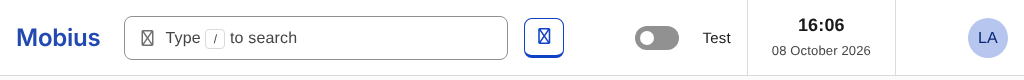
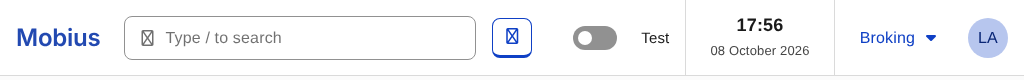
Mobius navigation: the system menu's trigger shows the current system
- The system menu is now a labelled ghost Menu button reading the current
  system ("Broking ▾"), so the top bar says where you are. Screen readers
  hear "System: Broking". The Systems header is removed.
- To fit the top bar: the search field is at most 20rem between 768 and
  1280px, and below 430px it shows only its icon. The search opens from a
  press anywhere on the field.
- Below 576px the trigger shows only its caret.

Claude-Session: https://claude.ai/code/session_011ueEbt7DPCNdx7drzVGCE6

diff --git a/Mobius-navigation/index.html b/Mobius-navigation/index.html
@@ -15,7 +15,7 @@
 <link rel="stylesheet" href="../prototype/blade.css">
 <!-- ?v= is bumped with every change, so browsers fetch this prototype's
      own files afresh rather than an old cached copy. -->
-<link rel="stylesheet" href="mobius-navigation.css?v=20261008-24">
+<link rel="stylesheet" href="mobius-navigation.css?v=20261008-29">
 </head>
 <body class="mob-hide-terms">
 
@@ -96,16 +96,16 @@
         <time class="app-bar-date" id="app-clock-date" datetime="2026-10-01">01 October 2026</time>
       </div>
 
-      <!-- System menu: Buckholt Menu button with an icon-only ghost trigger
-           (as the Overflow menu, Code & specs example 3) and its Tooltip on
-           the wrapper. Its panel is Menu's documented Link variant: one
-           `a.menu-item` per system (Broking, Activity, Renewals, Bordereau,
-           Accounts) with its icon, the current one `aria-current="page"`.
-           Written by mobius-navigation.js. -->
-      <div class="menu mob-systems" data-bs-toggle="tooltip" data-bs-placement="bottom" data-bs-title="Switch system">
-        <button type="button" class="btn btn-ghost menu-toggle" id="mob-systems-toggle" data-bs-toggle="dropdown" aria-expanded="false"
-          aria-label="Switch system" aria-controls="mob-systems-panel">
-          <div class="btn-icon"><i class="fa-regular fa-grid" aria-hidden="true"></i></div>
+      <!-- System menu: Buckholt Menu button (Code & specs example 1: the
+           label, then the caret), as a ghost Button. Its label is the
+           current system ("Broking"), so the top bar says where you are; it
+           is read out as "System: Broking". Its panel is Menu's documented
+           Link variant: one `a.menu-item` per system with its icon, the
+           current one `aria-current="page"`. Written by mobius-navigation.js. -->
+      <div class="menu mob-systems">
+        <button type="button" class="btn btn-ghost menu-toggle" id="mob-systems-toggle" data-bs-toggle="dropdown" aria-expanded="false" aria-controls="mob-systems-panel">
+          <span class="button-label"><span class="visually-hidden">System: </span><span id="mob-system-current">Broking</span></span>
+          <div class="btn-icon"><i class="fa-solid fa-caret-down" aria-hidden="true"></i></div>
         </button>
         <div class="menu-panel dropdown-menu dropdown-menu-end" id="mob-systems-panel" aria-labelledby="mob-systems-toggle">
           <ul class="menu-body" role="menu" id="mob-systems-items"></ul>
@@ -269,9 +269,9 @@
 <script src="../components/form/form.js"></script>
 <script src="../prototype/app-shell.js"></script>
 <script src="../prototype/blade.js"></script>
-<script src="fixtures.js?v=20261008-24"></script>
-<script src="navigation-model.js?v=20261008-24"></script>
-<script src="pages.js?v=20261008-24"></script>
-<script src="mobius-navigation.js?v=20261008-24"></script>
+<script src="fixtures.js?v=20261008-29"></script>
+<script src="navigation-model.js?v=20261008-29"></script>
+<script src="pages.js?v=20261008-29"></script>
+<script src="mobius-navigation.js?v=20261008-29"></script>
 </body>
 </html>

diff --git a/Mobius-navigation/mobius-navigation.js b/Mobius-navigation/mobius-navigation.js
@@ -464,15 +464,17 @@
      The system menu at the top right: an icon-only Menu button whose panel
      is Menu's documented Link variant, one link per system with its icon
      (Laurence, 8 October 2026: back to documented Buckholt, in place of
-     Response buttons). Client and policy pages are Broking's; the current
-     system is `aria-current="page"`. */
+     Response buttons). Its trigger is labelled with the current system, so
+     the top bar says where you are. Client and policy pages are Broking's;
+     the current system is `aria-current="page"`. */
   function currentSystem(r) {
     return r.scope === 'app' && ['dashboard', 'search', 'newclient'].indexOf(r.page) < 0 ? r.page : 'dashboard';
   }
   function renderSystems(r) {
     var cur = currentSystem(r);
+    /* The trigger's label is the current system. */
+    $('mob-system-current').innerHTML = t(M.MODULES.filter(function (m) { return m.id === cur; })[0].label);
     $('mob-systems-items').innerHTML =
-      '<li role="none"><h6 class="menu-section-header">Systems</h6></li>' +
       M.MODULES.map(function (m) {
         var on = m.id === cur;
         return '<li role="none"><a class="menu-item" role="menuitem" href="#' + m.id + '"' + (on ? ' aria-current="page"' : '') + '>' +
@@ -586,7 +588,8 @@
      focus ring is not left showing behind it, and focus is not put back
      on it afterwards. Opened from the keyboard, focus returns to the field
      when the Modal closes. */
-  searchInput.addEventListener('mousedown', function (e) {
+  /* On the field or its icon (on a narrow phone the icon covers it). */
+  searchForm.addEventListener('mousedown', function (e) {
     e.preventDefault();
     S.searchTrigger = null;
     openSearch();

diff --git a/Mobius-navigation/mobius-navigation.css b/Mobius-navigation/mobius-navigation.css
@@ -78,6 +78,27 @@
 .mob-systems { position: relative; display: flex; align-items: center; margin-left: var(--spacer-04); }
 .mob-systems > .btn { align-self: center; }          /* a Button sets its own top alignment */
 .mob-systems .menu-panel { z-index: 1035; }
+/* The trigger carries the current system's name. Below 1280px it sits 8px
+   from the clock; on a phone the name is kept for assistive technology but
+   not drawn, and the caret alone opens the menu. */
+@media (max-width: 1279.98px) { .mob-systems { margin-left: var(--spacer-03); } }
+@media (min-width: 768px) and (max-width: 1279.98px) { .mob-app-search { max-width: 20rem; } }   /* room for the longest system name (Bordereau) */
+/* On the narrowest phones the search field shows only its icon (it is
+   still the field: a tap opens the search), and the right-hand controls sit
+   4px apart, so the bar fits at 360px. */
+@media (max-width: 429.98px) {
+  .mob-app-search { flex: 0 0 2.75rem; }
+  .mob-app-search .form-control::placeholder { color: transparent; }
+  .mob-systems, .mob-user-menu { margin-left: var(--spacer-02); }
+  .app-bar-logo { margin-right: var(--spacer-03); }
+  .mob-app-search, .mob-app-create { margin-right: var(--spacer-02); }
+}
+@media (max-width: 575.98px) {
+  .mob-systems .button-label {
+    position: absolute; width: 1px; height: 1px; padding: 0; margin: -1px;
+    overflow: hidden; clip: rect(0, 0, 0, 0); white-space: nowrap; border: 0;
+  }
+}
 
 /* The user menu's trigger is the Avatar itself, so the toggle has no Button
    chrome of its own; focus is drawn round the Avatar. */

diff --git a/Mobius-navigation/PROTOTYPE.md b/Mobius-navigation/PROTOTYPE.md
@@ -73,12 +73,17 @@ and with it the module links across the top bar:
   GitHub does (suggested to Laurence, 8 October 2026), in Text input's own placeholder style;
   "/" opens the search from anywhere unless you are typing in a field, and
   `aria-keyshortcuts="/"` gives the key to assistive technology.
-- **The system menu, beside the avatar.** An icon-only ghost Menu button (as the Overflow menu,
-  Menu button Code & specs example 3, with its Tooltip "Switch system"). Its panel is **Menu's
-  documented Link variant**: a "Systems" section header, then one `a.menu-item` per system
-  (Broking, Activity, Renewals, Bordereau, Accounts) with its icon; the current one is
-  `aria-current="page"` (client and policy pages are Broking's). Buckholt documents no system or
-  app switcher, so the switcher itself is a gap to raise; the parts are documented.
+- **The system menu, beside the avatar.** A **labelled ghost Menu button** (Menu button Code &
+  specs example 1: the label, then the caret) whose **label is the current system**, so the top
+  bar says where you are ("Broking ▾"; read out as "System: Broking") (Laurence, 8 October 2026).
+  Its panel is **Menu's documented Link variant**: one `a.menu-item` per system (Broking,
+  Activity, Renewals, Bordereau, Accounts) with its icon, no section header; the current one is
+  `aria-current="page"` (client and policy pages are Broking's). Below 576px the label is kept
+  for assistive technology but not drawn, and the caret alone opens it. Buckholt documents no
+  system or app switcher, so the switcher itself is a gap to raise; the parts are documented.
+- **The top bar on narrow screens.** Between 768 and 1280px the search field is at most 20rem,
+  leaving room for the longest system name; below 430px the field shows only its icon (a tap on
+  it still opens the search) and the right-hand controls sit 4px apart, so the bar fits at 360px.
 - **Create new client, next to the search** (Laurence, 8 October 2026): a secondary Button
   (an anchor, as it opens a page) with the User-plus icon and its label; below 1280px the bar
   has no room for the label, so an icon-only version with its name and Tooltip shows instead.
@@ -160,7 +165,7 @@ Laurence asked for the best experience for system-level navigation. The decision
 
 | Need | Built with | Why |
 | --- | --- | --- |
-| Systems: Broking, Activity, Renewals, Bordereau, Accounts | The **system menu** beside the avatar (Laurence, 8 October 2026): an icon-only ghost Menu button whose panel is Menu's Link variant, one link per system with its icon, the current one `aria-current="page"` (see "The top bar" above). The same at every width | The prototype's "Dashboard" is the Broking system, so it is named Broking, with the catalogue's Shield icon (Laurence, 7 October 2026). The top bar's horizontal module links were removed to give the search the room next to the wordmark |
+| Systems: Broking, Activity, Renewals, Bordereau, Accounts | The **system menu** beside the avatar (Laurence, 8 October 2026): a labelled ghost Menu button showing the current system ("Broking ▾") whose panel is Menu's Link variant, one link per system with its icon, the current one `aria-current="page"` (see "The top bar" above). The same at every width | The prototype's "Dashboard" is the Broking system, so it is named Broking, with the catalogue's Shield icon (Laurence, 7 October 2026). The top bar's horizontal module links were removed to give the search the room next to the wordmark |
 | Broking landing page | **Dashboard** (`#dashboard`, also the default route and the wordmark's link), as current Mobius has it: two Tabs, Outstanding diary and Sanctions check matches, each a Card with a filter bar, a Table of sample rows and "Load more". Sanctions status is a status Tag; "Assigned to" is an extra-small Avatar and the name. Create new client is the page's one primary, in the heading | No search results until a search has been run (Laurence, 7 October 2026). Tabs, because the two views switch in place on one page. Current Mobius paginates; Buckholt has no Pagination component, so the tables use the same "Load more" standalone Link as every other list here. The Days overdue From/To pair is left out of the diary filters: it needs a range input Buckholt does not document |
 | What can I search? (in the search Modal) | A ghost Button with the Info icon to the right of the Modal's search field, as current Mobius has it. It opens a floating help panel: the title with a close Button, a Buckholt List per group (list heading and items), the tip, and "Learn more" as a standalone Link with the External-link icon; current Mobius wording in sentence case. Escape closes the panel first, back to its Button. **Buckholt has no Popover** (no `.popover` styles in `buckholt.css`, and no Bootstrap stylesheet is loaded), so the panel is a Menu panel (`.menu-panel.dropdown-menu`) on Bootstrap Dropdown, with fixed positioning so it floats over the Modal's scrolling body | Gap to raise with Buckholt: a documented Popover |
 | Search results (Laurence, 8 October 2026, after current Mobius) | In the search Modal, not a page. "{n} clients found for “{query}”", then the **filters straight above the results, not in a Card** (Brand, Line of business, Policy status, Clear and Apply; Apply keeps the clients with a policy that matches), then **one Accordion item per client** (Accordion Code & specs; the strict pass, 8 October 2026, in place of undocumented expandable Table rows), headed with the name and reference. Opening one shows a standalone **View client** Link (an Accordion header is a Button, so it cannot be the link), the client's reference, address, postcode, email and date of birth, and **their policies in a Table**, each policy number the link to the policy. Eight sample clients come back for "motor"; only the prototype's own client and its policies open, and the samples say so in a toast. An open client stays open when the filters change. A no-results state. An old `#search/{query}` link opens the Modal with that search over the Dashboard | Accordion, Table, Key-value pairs, Link, Tag |
